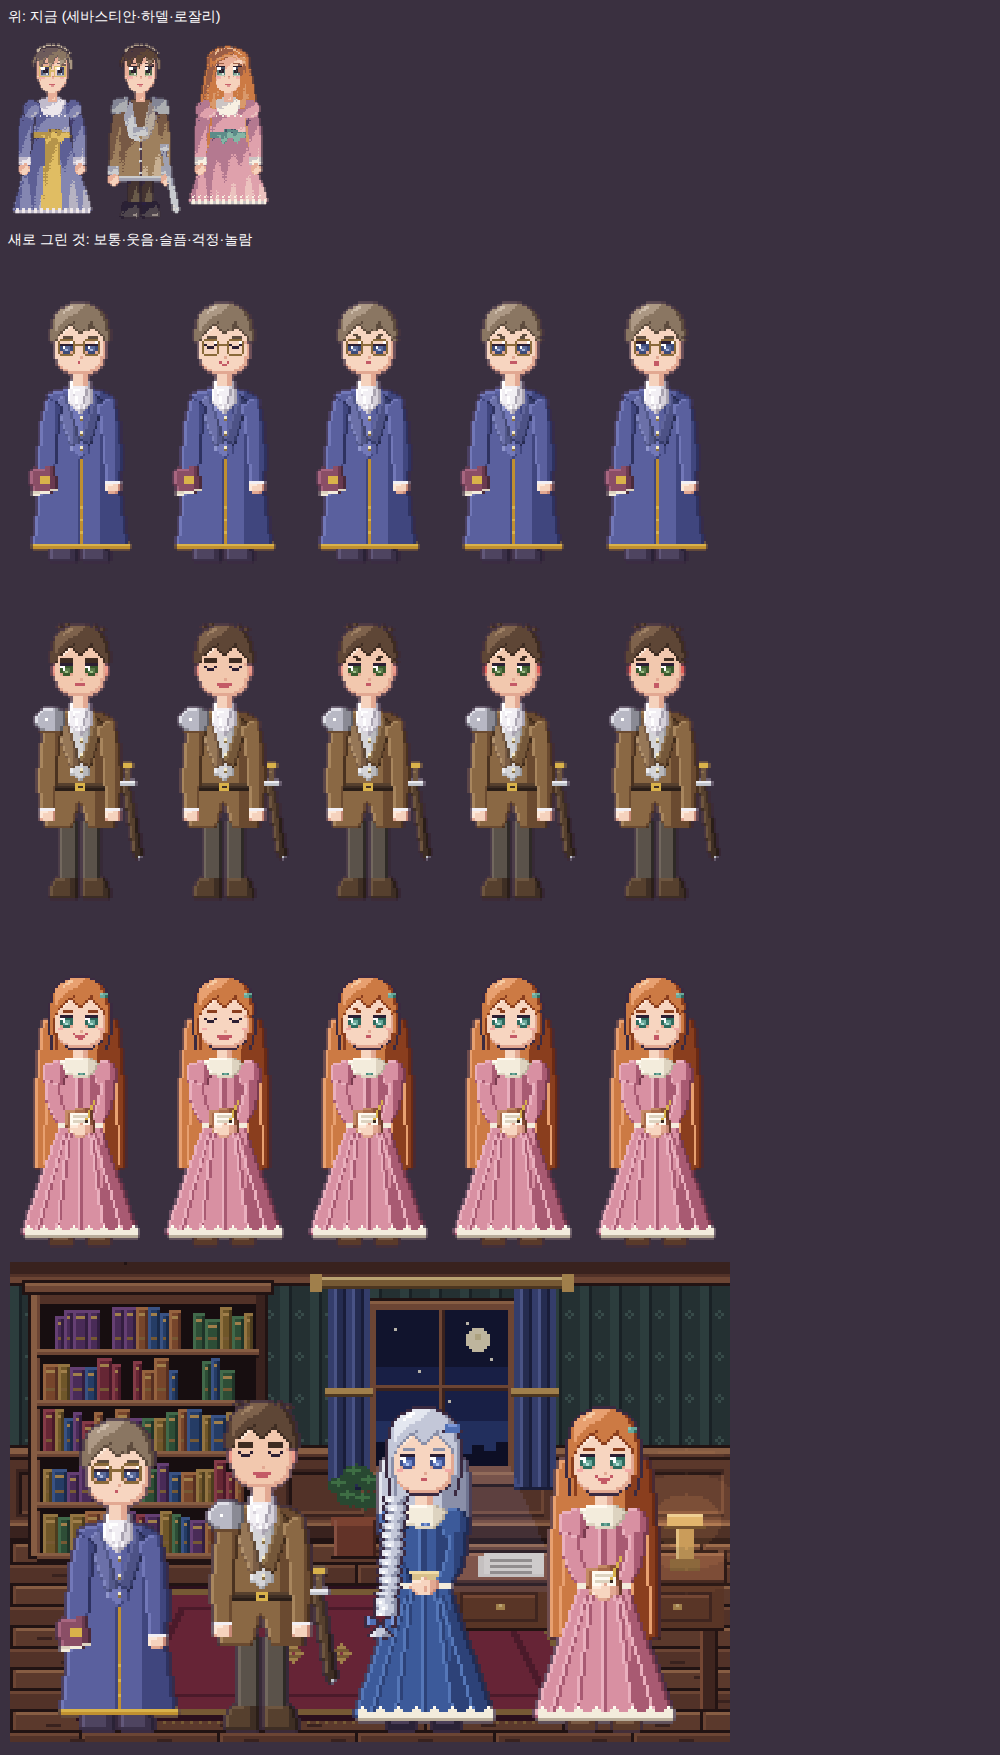
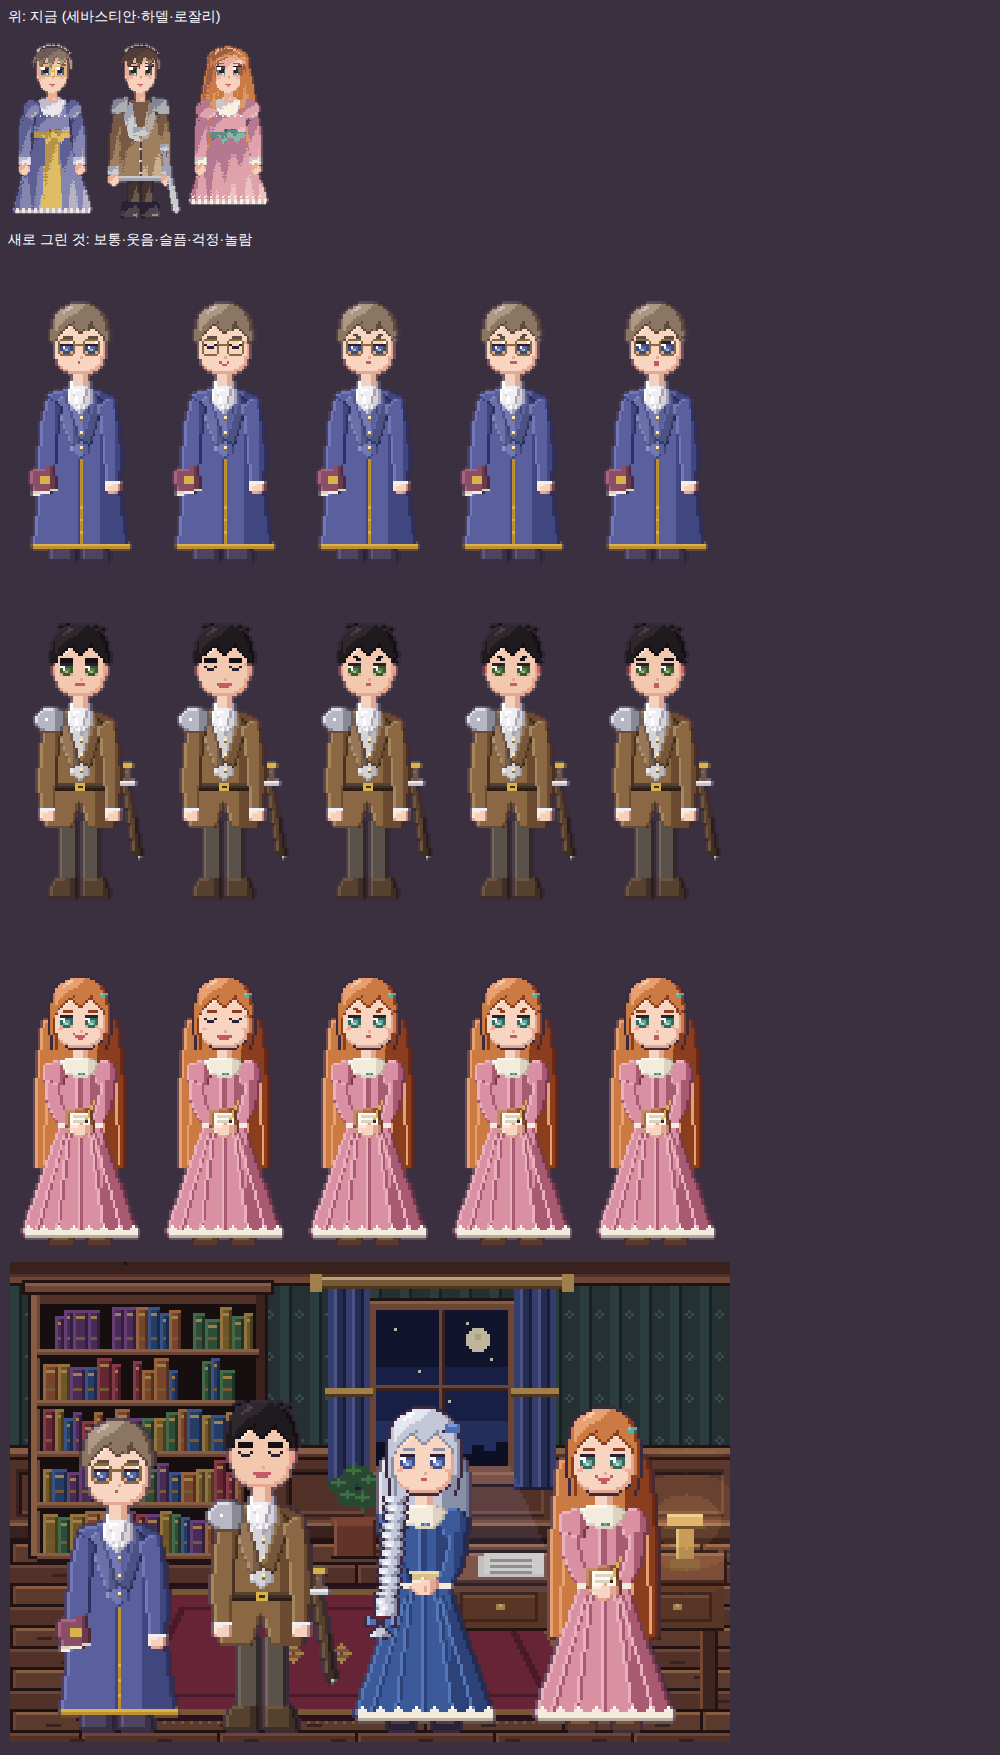
새 그림체: 하델 검은 머리 (wip), canon에 외형 기록
Claude-Session: https://claude.ai/code/session_01NzQUDDCoPt1Z4eH1vzoWiG

diff --git a/wip/more3.js b/wip/more3.js
@@ -85,7 +85,7 @@ const BOY_FIG={
 ,
  sebastian:{hair:['#5e4c3e','#8a7662','#ac9884','#cdbcaa'],eye:['#3a4a7a','#5a6a9a','#a8b4d8'],lock:'r',face:'sebastian',glasses:'#8a6a3a',
    coat:['#2e3260','#40467e','#5a609e','#7278b8','#9096cc'],vest:['#40467e','#5a609e','#7278b8','#9096cc'],pants:['#2e3260','#40467e','#5a609e','#7278b8'],boots:['#2a2236','#3a3048','#4e4460','#62587a'],btn:'#d9b24a',robe:true,trim2:['#8a6a20','#c09030','#d9b24a'],book:['#4a2a3a','#6a3a50','#8a4e66','#a86680']},
- hadel:{hair:['#3e2c22','#5e4636','#7e624c','#9e8064'],eye:['#3a5a2e','#5a7a4a','#a0c088'],lock:'none',tuft:true,face:'hadel',ears:true,skin:'#f2c8ae',
+ hadel:{hair:['#121014','#1e1a1e','#2e282c','#4a4246'],eye:['#3a5a2e','#5a7a4a','#a0c088'],lock:'none',tuft:true,face:'hadel',ears:true,skin:'#f2c8ae',
    coat:['#4a3220','#6a4a30','#8a6844','#a8865e','#c4a47c'],vest:['#9a9a9e','#b8b8bc','#d4d4d8','#ececf0'],pants:['#2e2a26','#423c36','#5a524a','#72685e'],boots:['#2a1e18','#3e2e24','#56402e','#6e5640'],btn:'#c0c4cc',belt:['#2a1e18','#3e2e24','#56402e'],sword:true,pauldron:true}
 };
 // 얼굴 차이: 눈(16~20행, 두 눈 같은 무늬), 눈썹(13~15행), 입(23~25행)

diff --git a/docs/canon.md b/docs/canon.md
@@ -14,7 +14,7 @@
 - **아드리안 웨스트콧**: 담장 너머 이웃(자작가 둘째), 아델라인보다 1세 위. 모래빛 머리, 잉크 묻은 손, 지도를 그림(수도 측량 아카데미).
 - **카일런 에르바인**: 북부 대공 그레고르의 아들, +2세. 얼어서 짧아진 손가락 두 개를 장갑으로 숨김. 편지는 날씨로 시작. 개 이름 "고개".
 - **율리안 렌하르트**: 둘째 황자, +1세. 웃을 때 왼손으로 오른 엄지손톱을 누름. 아델라인만 "율"이라 부름.
-- **리오넬 베르몬트**(남, 상단, +1세) / **세바스티안 루이**(동, 마탑, 동갑) / **하델 오르포스**(서, 기사단, +1세, 거짓말 못 함, 귀가 붉어짐).
+- **리오넬 베르몬트**(남, 상단, +1세) / **세바스티안 루이**(동, 마탑, 동갑) / **하델 오르포스**(서, 기사단, +1세, 거짓말 못 함, 귀가 붉어짐, **검은 머리**(게임 외형 결정)).
 - **로잘리 클레어몬트**(수다쟁이 친구, 훗날 소식지 『사실』) / **세레나 발트하임**(라이벌→동맹, 하얀 리본) / **발트하임 백작**(오해받는 사람).
 
 ## 연대

diff --git a/wip/README.md b/wip/README.md
@@ -19,3 +19,4 @@
 - 아이는 어른보다 **작게**. 비율 축소 대신 머리는 그대로 두고 다리·치마 줄을 빼서 키를 낮춘다(`shrinkKid`, `KID` 표: 아델라인·아드리안 18줄, 탠지(13세) 10줄). 정식 반영 때 `sprite()` 안에서 적용.
 - 머리 모양은 함부로 바꾸지 않는다: 긴 옆머리(카일런)·넘긴 머리(리오넬)는 사용자가 "이상하다"고 해서 되돌림.
 - 세바스티안: 마탑 로브(금단)·둥근 안경(렌즈 비움)·책, 반쯤 감긴 차분한 눈. 하델: 가죽 웃옷·허리띠·어깨 보호대·허리에 찬 검, 굵은 눈썹, 늘 붉은 귀(놀람·걱정 때 더 붉게). 로잘리: 허리까지 늘어뜨린 적갈색 머리·분홍 드레스·수첩과 연필, 살짝 벌린 입.
+- 하델은 **검은 머리** (사용자 지정, canon.md에 기록). 카일런의 검푸른 머리와 구분되게 푸른 기 없는 검정.
